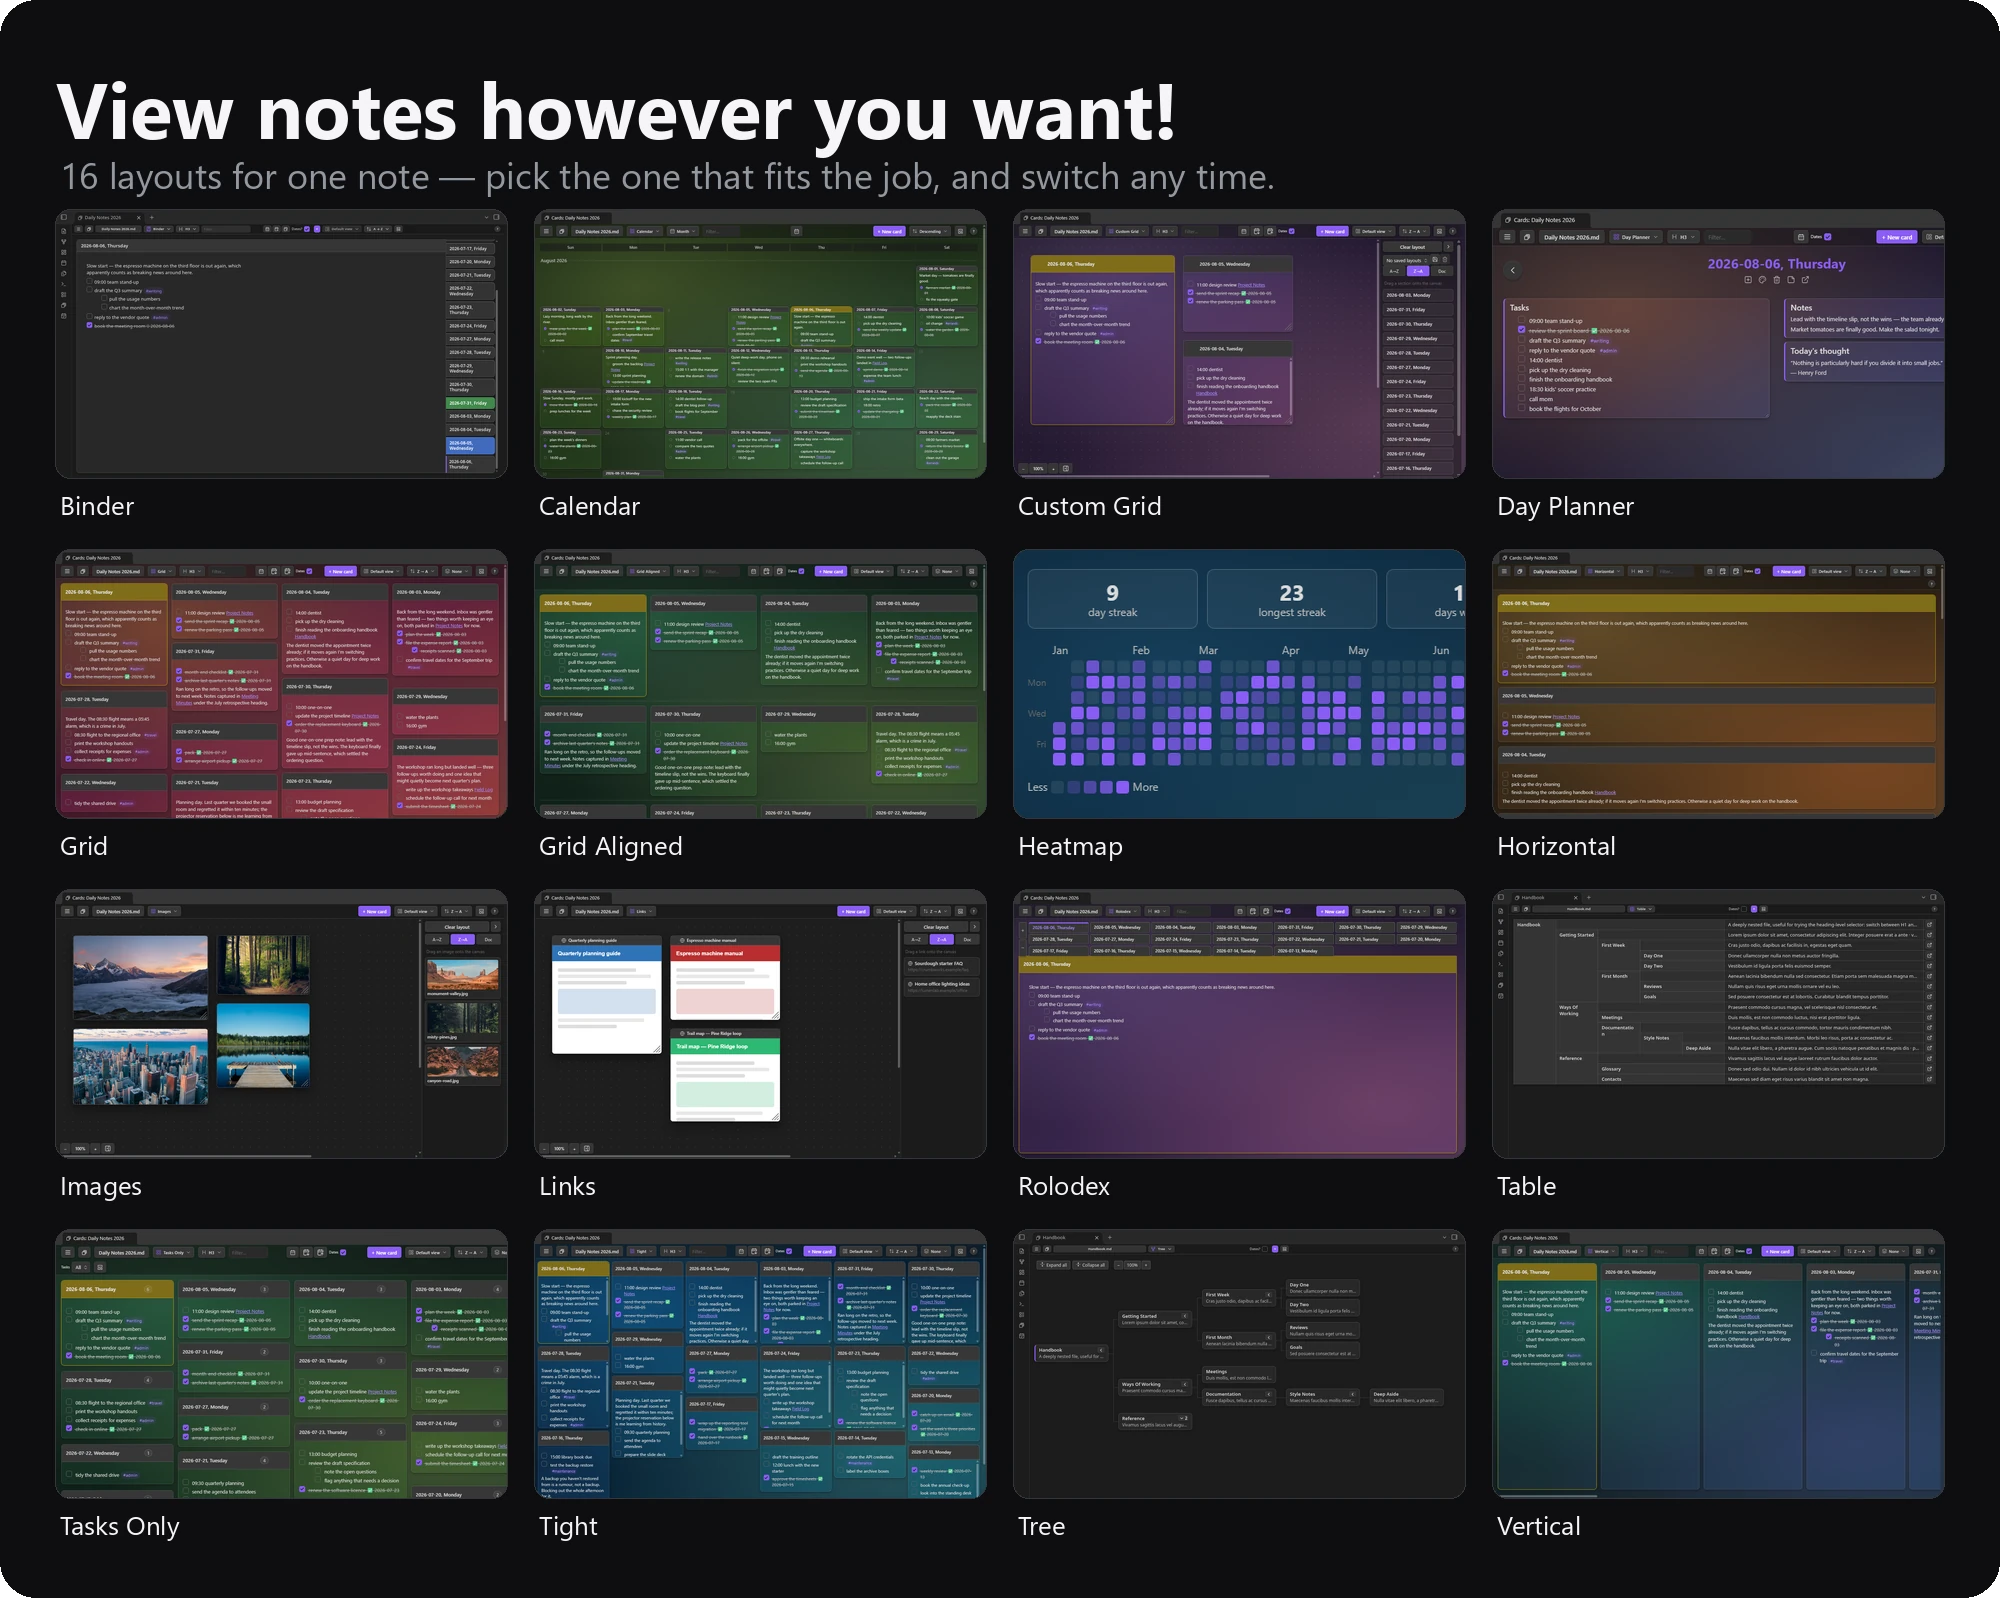
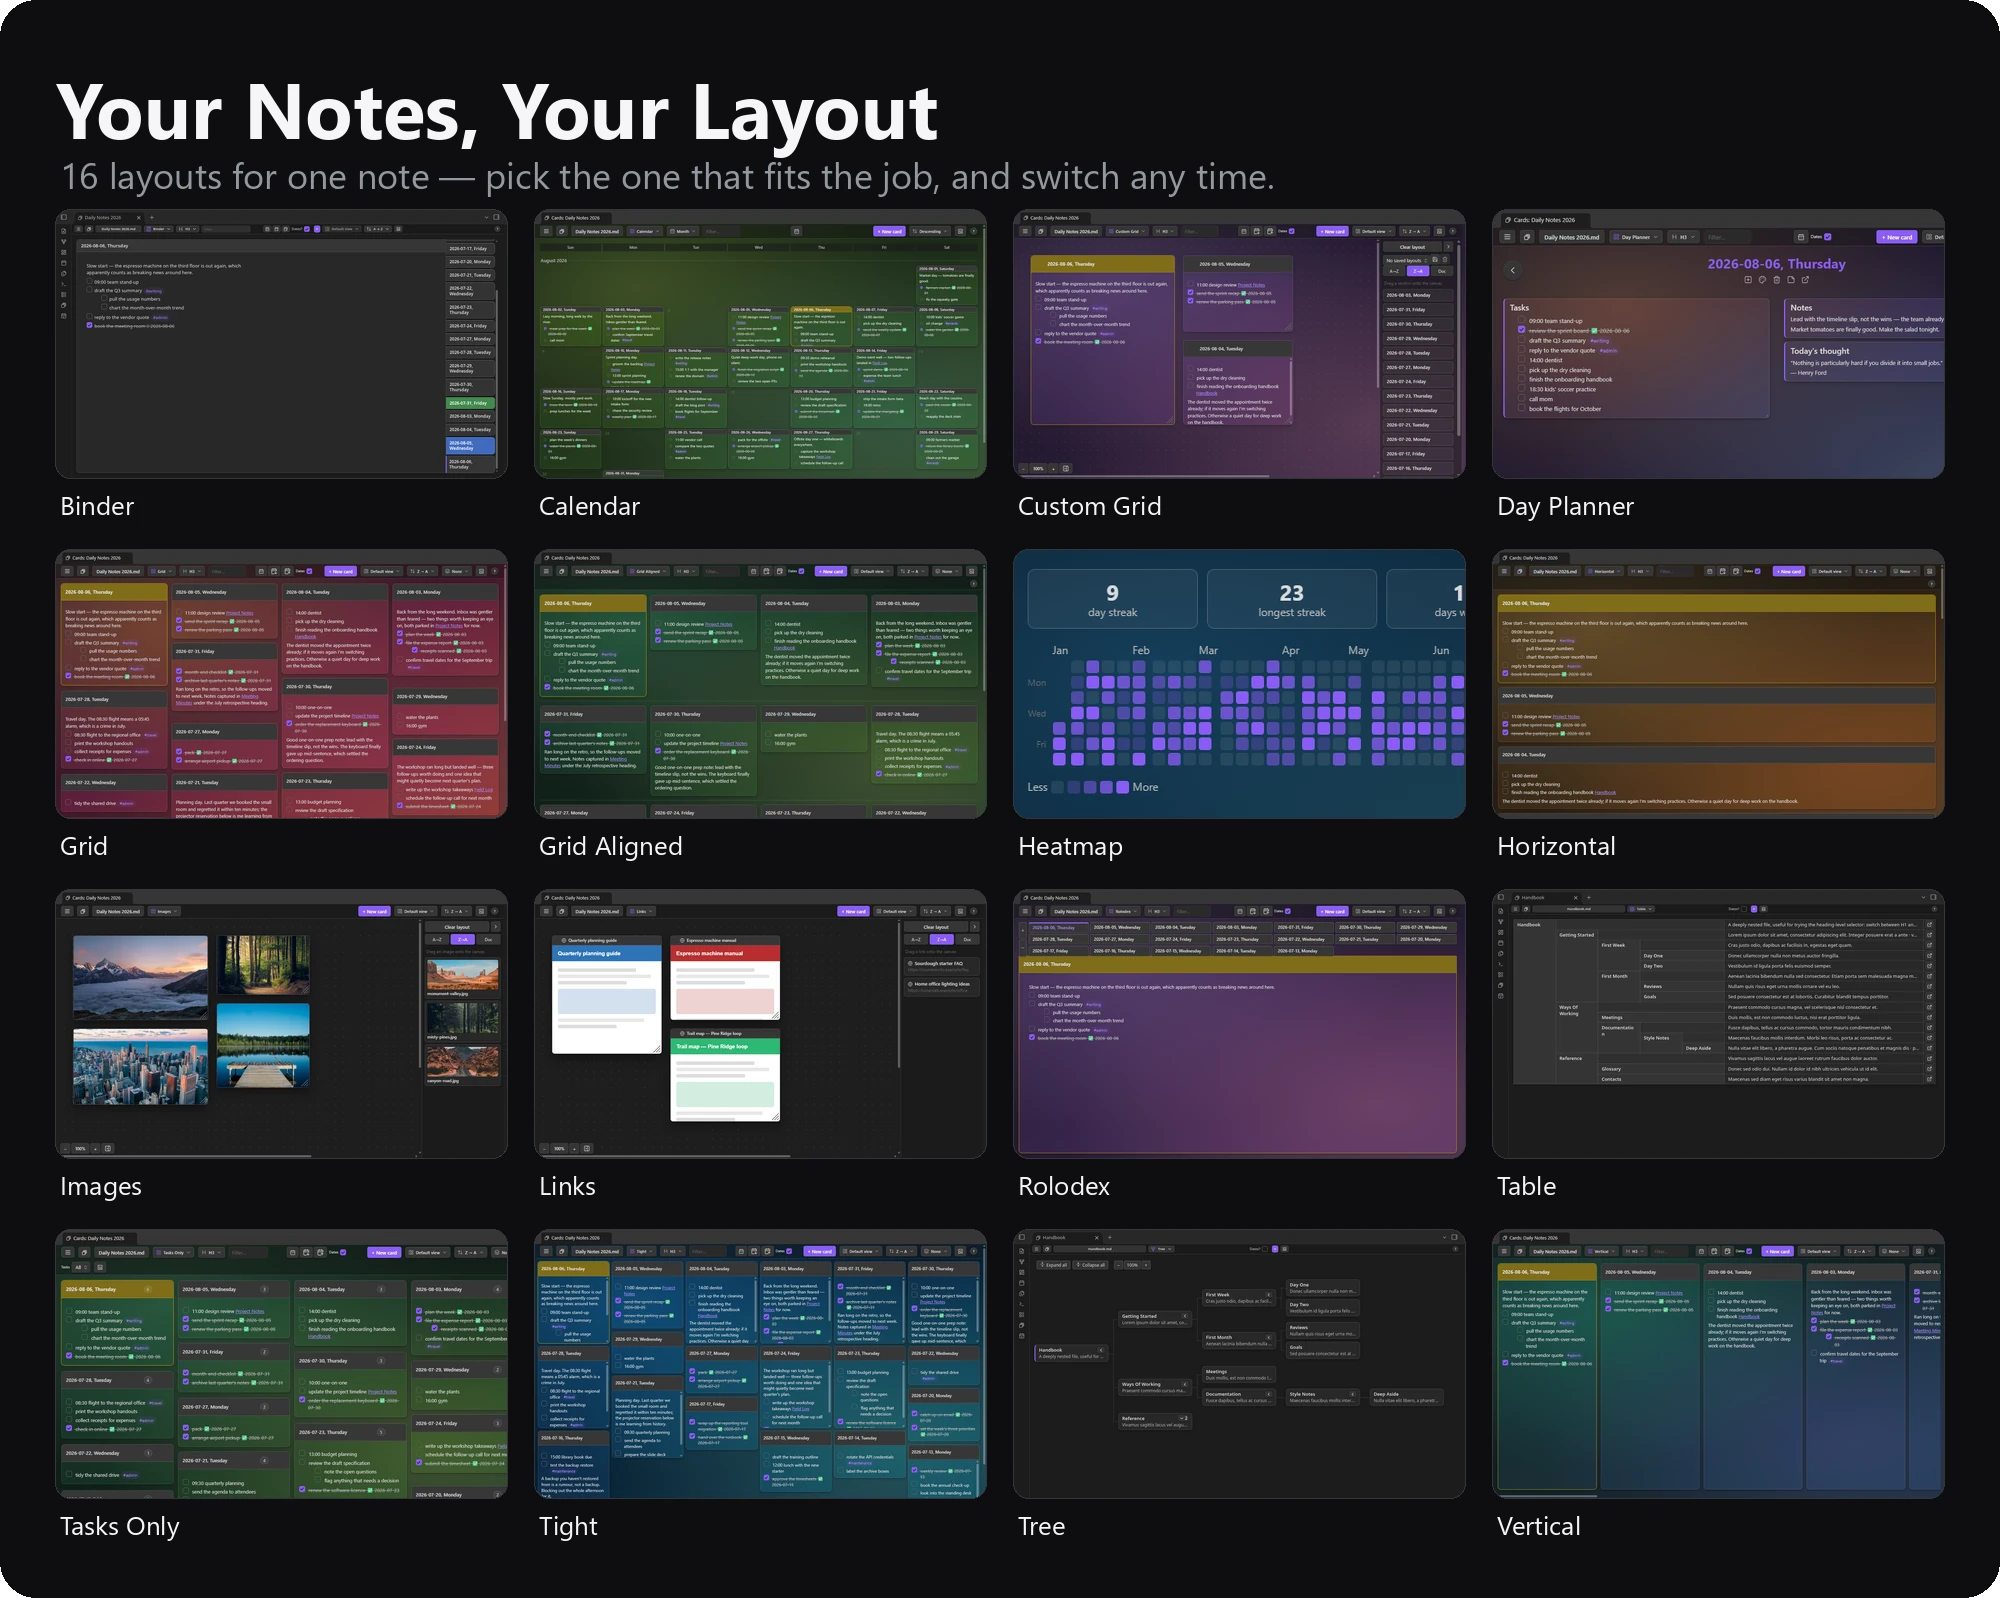
README hero: "Your Notes, Your Layout"

Changed region(s): [[0.031, 0.0307, 0.589, 0.092]]

diff --git a/tools/make_views_hero.py b/tools/make_views_hero.py
@@ -75,7 +75,7 @@ panel = Image.new("RGBA", (W, H), (0, 0, 0, 0))
 draw = ImageDraw.Draw(panel)
 draw.rounded_rectangle([0, 0, W - 1, H - 1], 36, fill=PANEL_BG)
 
-draw.text((PAD, 54), "View notes however you want!", font=HEAD, fill=WHITE)
+draw.text((PAD, 54), "Your Notes, Your Layout", font=HEAD, fill=WHITE)
 draw.text((PAD + 4, 150), f"{len(VIEWS)} layouts for one note — pick the one that fits the job, and switch any time.", font=SUB, fill=GRAY)
 
 for i, (label, shot) in enumerate(VIEWS):

diff --git a/README.md b/README.md
@@ -1,6 +1,6 @@
 # Single File Section Cards
 
-[![View notes however you want — sixteen layouts for one note](screenshots/hero-views.webp)](#layouts)
+[![Your notes, your layout — sixteen layouts for one note](screenshots/hero-views.webp)](#layouts)
 
 [![One note as a wall of editable cards](screenshots/hero-cards.png)](#layouts)
 
